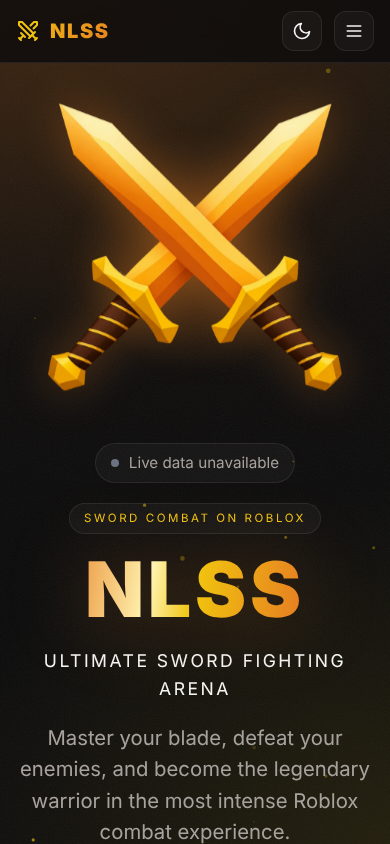
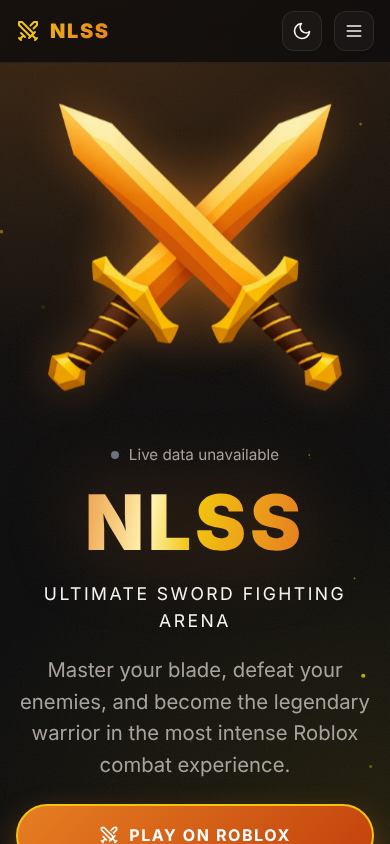
Clean up the page: fewer decorations, flatter labels, tighter spacing
- Remove the scrolling ticker, hero chips, feature tags, the faint
  watermark in the large feature card, and the footer wordmark
- Section labels are plain text instead of bordered pills
- The hero status is a plain line instead of a pill
- Drop the duplicate "updated" label in the live numbers panel
- Tighten section and section-head spacing
- Refresh screenshots, including the leaderboard

diff --git a/_archive/nlss_website_final.html b/_archive/nlss_website_final.html
@@ -124,20 +124,17 @@
     h1, h2, h3 { font-family: var(--display); line-height: 1.15; }
 
     .wrap { width: min(1120px, 100% - 40px); margin-inline: auto; }
-    .section { position: relative; padding: 112px 0; border-top: 1px solid var(--line-soft); }
+    .section { position: relative; padding: 104px 0; border-top: 1px solid var(--line-soft); }
     .eyebrow {
-      display: inline-block;
-      padding: 6px 14px;
-      border-radius: 999px;
-      border: 1px solid var(--line-soft);
-      background: var(--panel);
+      display: block;
       font-family: var(--display);
-      font-size: 0.72rem;
+      font-size: 0.74rem;
+      font-weight: 700;
       letter-spacing: 0.22em;
       text-transform: uppercase;
       color: var(--accent-text);
     }
-    .section-head { text-align: center; margin-bottom: 60px; display: grid; gap: 14px; justify-items: center; }
+    .section-head { text-align: center; margin-bottom: 52px; display: grid; gap: 12px; justify-items: center; }
     .section-head h2 { font-size: clamp(2rem, 4.4vw, 3rem); letter-spacing: 0.05em; text-transform: uppercase; }
     .section-head p { color: var(--muted); max-width: 580px; font-size: 1.12rem; }
 
@@ -335,15 +332,11 @@
       display: inline-flex;
       align-items: center;
       gap: 10px;
-      padding: 7px 15px;
-      border-radius: 999px;
-      border: 1px solid var(--line-soft);
-      background: var(--panel);
       font-size: 0.95rem;
       color: var(--muted);
     }
     .dot { width: 8px; height: 8px; border-radius: 50%; background: #6b7280; }
-    .status.is-live { color: var(--text); border-color: var(--line); }
+    .status.is-live { color: var(--text); }
     .status.is-live .dot { background: #22c55e; box-shadow: 0 0 10px #22c55e; animation: pulse 2s infinite; }
     @keyframes pulse { 50% { opacity: 0.35; } }
 
@@ -368,15 +361,6 @@
       text-transform: uppercase;
     }
     .hero-lede { max-width: 540px; font-size: 1.27rem; color: var(--muted); }
-    .chips { display: flex; flex-wrap: wrap; gap: 10px; list-style: none; }
-    .chips li {
-      padding: 6px 13px;
-      border-radius: 10px;
-      border: 1px solid var(--line-soft);
-      background: var(--panel);
-      font-size: 0.95rem;
-      font-weight: 600;
-    }
     .hero-actions { display: flex; flex-wrap: wrap; gap: 14px; margin-top: 4px; }
 
     .hero-art {
@@ -405,30 +389,6 @@
     @keyframes emblem-in { from { transform: scale(0.8) rotate(-8deg); opacity: 0; } to { transform: none; opacity: 1; } }
     @keyframes ring { from { transform: scale(0.2); opacity: 1; } to { transform: scale(2.4); opacity: 0; } }
     @keyframes sparks { from { transform: scale(0.3); opacity: 0; } 40% { opacity: 1; } to { transform: scale(1.3); opacity: 0; } }
-
-    /* ---------- Ticker ---------- */
-    .ticker {
-      position: relative;
-      overflow: hidden;
-      border-block: 1px solid var(--line-soft);
-      background: var(--panel);
-    }
-    .ticker-track { display: flex; width: max-content; animation: ticker 32s linear infinite; }
-    .ticker:hover .ticker-track { animation-play-state: paused; }
-    .ticker-group { display: flex; flex: none; }
-    .ticker-group span {
-      padding: 20px 0;
-      padding-right: 58px;
-      font-family: var(--display);
-      font-weight: 700;
-      font-size: 0.92rem;
-      letter-spacing: 0.16em;
-      text-transform: uppercase;
-      white-space: nowrap;
-      color: var(--muted);
-    }
-    .ticker-group span::after { content: "◆"; margin-left: 58px; color: var(--gold); font-size: 0.6rem; vertical-align: middle; }
-    @keyframes ticker { to { transform: translateX(-50%); } }
 
     /* ---------- Bento features ---------- */
     .bento {
@@ -471,28 +431,6 @@
     .card.big h3 { font-size: clamp(1.4rem, 2.6vw, 1.9rem); }
     .card p { color: var(--muted); font-size: 1.07rem; }
     .card.big p { font-size: 1.22rem; max-width: 520px; }
-    .card .art {
-      position: absolute;
-      right: -26px;
-      bottom: -30px;
-      width: 220px;
-      height: 220px;
-      color: var(--gold);
-      opacity: 0.07;
-      pointer-events: none;
-    }
-    .card .art .ico { width: 100%; height: 100%; stroke-width: 1.2; }
-    .tags { display: flex; flex-wrap: wrap; gap: 10px; list-style: none; margin-top: 8px; }
-    .tags li {
-      padding: 7px 14px;
-      border-radius: 999px;
-      background: rgba(230, 126, 34, 0.14);
-      color: var(--accent-text);
-      font-family: var(--display);
-      font-size: 0.7rem;
-      letter-spacing: 0.1em;
-      text-transform: uppercase;
-    }
     /* Pointer spotlight that follows the cursor (set by JS). */
     .spot::after {
       content: "";
@@ -734,22 +672,6 @@
     .foot-links a:hover { color: var(--accent-text); text-decoration: underline; }
     .foot-actions { display: flex; align-items: center; gap: 14px; flex-wrap: wrap; justify-content: flex-end; }
     .copy { margin-top: 34px; padding-top: 22px; border-top: 1px solid var(--line-soft); font-size: 0.92rem; }
-    .footer-mark {
-      margin-top: 40px;
-      text-align: center;
-      font-family: var(--display);
-      font-weight: 900;
-      font-size: clamp(5rem, 24vw, 17rem);
-      line-height: 0.8;
-      letter-spacing: 0.04em;
-      color: transparent;
-      background: linear-gradient(180deg, rgba(241, 196, 15, 0.28), transparent 85%);
-      -webkit-background-clip: text;
-      background-clip: text;
-      user-select: none;
-      pointer-events: none;
-    }
-
     /* ---------- Back to top + toast ---------- */
     .to-top {
       position: fixed;
@@ -924,7 +846,7 @@
     @media (max-width: 980px) {
       .hero-grid { grid-template-columns: 1fr; text-align: center; gap: 40px; }
       .hero-copy { justify-items: center; }
-      .chips, .hero-actions { justify-content: center; }
+      .hero-actions { justify-content: center; }
       .hero-art { order: -1; max-width: 300px; }
       .bento { grid-template-columns: repeat(2, 1fr); }
       .card.big { grid-column: span 2; grid-row: span 1; }
@@ -1031,16 +953,9 @@
             <span class="dot" aria-hidden="true"></span>
             <span id="status-text">Connecting to Roblox…</span>
           </span>
-          <p class="eyebrow">Sword combat on Roblox</p>
           <h1 class="hero-title" id="hero-title">NLSS</h1>
           <p class="hero-sub">Ultimate sword fighting arena</p>
           <p class="hero-lede">Master your blade, defeat your enemies, and become the legendary warrior in the most intense Roblox combat experience.</p>
-          <ul class="chips" aria-label="Highlights">
-            <li>Roblox</li>
-            <li>7 legendary swords</li>
-            <li>Ranked mode</li>
-            <li>Team battles</li>
-          </ul>
           <div class="hero-actions">
             <a class="btn btn-lg" href="https://www.roblox.com/games/129483753300243/Coming-soon" target="_blank" rel="noopener">
               <svg class="ico" aria-hidden="true"><use href="#i-swords"/></svg>
@@ -1063,17 +978,6 @@
       </div>
     </section>
 
-    <div class="ticker" aria-hidden="true">
-      <div class="ticker-track">
-        <div class="ticker-group">
-          <span>Combos</span><span>Parries</span><span>Legendary blades</span><span>Ranked matches</span><span>Team battles</span><span>Customization</span><span>Unique abilities</span>
-        </div>
-        <div class="ticker-group">
-          <span>Combos</span><span>Parries</span><span>Legendary blades</span><span>Ranked matches</span><span>Team battles</span><span>Customization</span><span>Unique abilities</span>
-        </div>
-      </div>
-    </div>
-
     <section class="section" id="features" aria-labelledby="features-title">
       <div class="wrap">
         <header class="section-head reveal">
@@ -1084,17 +988,11 @@
 
         <div class="bento">
           <article class="card big spot reveal">
-            <div class="art" aria-hidden="true"><svg class="ico"><use href="#i-swords"/></svg></div>
             <div class="card-icon" aria-hidden="true"><svg class="ico"><use href="#i-swords"/></svg></div>
             <div>
               <h3>Intense combat</h3>
               <p>Fast-paced sword fighting mechanics with combo systems, parries, and special moves. Every battle tests your skill and reflexes.</p>
             </div>
-            <ul class="tags" aria-label="Combat highlights">
-              <li>Combos</li>
-              <li>Parries</li>
-              <li>Special moves</li>
-            </ul>
           </article>
           <article class="card spot reveal">
             <div class="card-icon" aria-hidden="true"><svg class="ico"><use href="#i-trophy"/></svg></div>
@@ -1190,7 +1088,6 @@
           <article class="panel spot reveal">
             <div class="panel-top">
               <span class="panel-label">Players right now</span>
-              <span class="panel-label" id="last-updated-inline"></span>
             </div>
             <div class="big-number" id="active-players">—</div>
             <div class="spark-wrap">
@@ -1324,7 +1221,6 @@
       </div>
       <p class="copy">© 2026 NLSS. All rights reserved.</p>
     </div>
-    <div class="footer-mark" aria-hidden="true">NLSS</div>
   </footer>
 
   <button class="to-top" id="to-top" type="button" aria-label="Back to top">
@@ -1508,7 +1404,6 @@
       const activeEl = document.getElementById('active-players');
       const visitsEl = document.getElementById('game-visits');
       const updatedEl = document.getElementById('last-updated');
-      const updatedInline = document.getElementById('last-updated-inline');
       const noteEl = document.getElementById('stats-note');
       const sparkEl = document.getElementById('spark');
       const sparkNote = document.getElementById('spark-note');
@@ -1596,7 +1491,6 @@
           const time = new Date(lastOk).toLocaleTimeString([], { hour: '2-digit', minute: '2-digit' });
           updatedEl.textContent = time;
           updatedEl.dataset.set = '1';
-          updatedInline.textContent = `Updated ${time}`;
           setStatus(`${fmt.format(playing)} playing now`, true);
           noteEl.textContent = 'Refreshes every minute while this tab is open.';
         } catch (err) {
